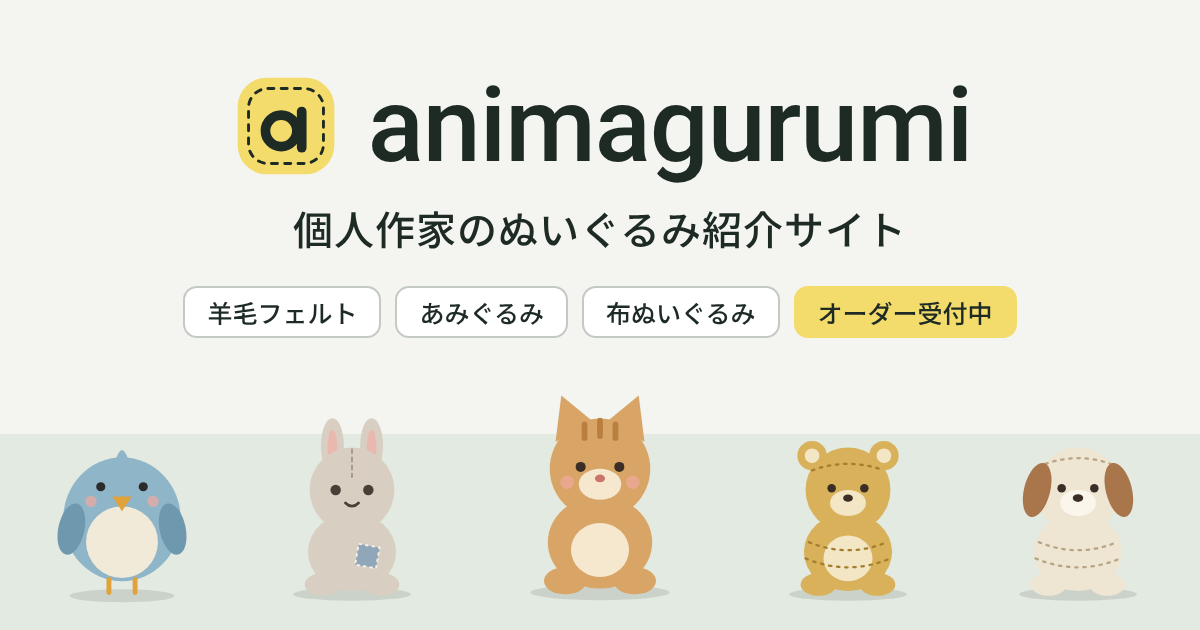
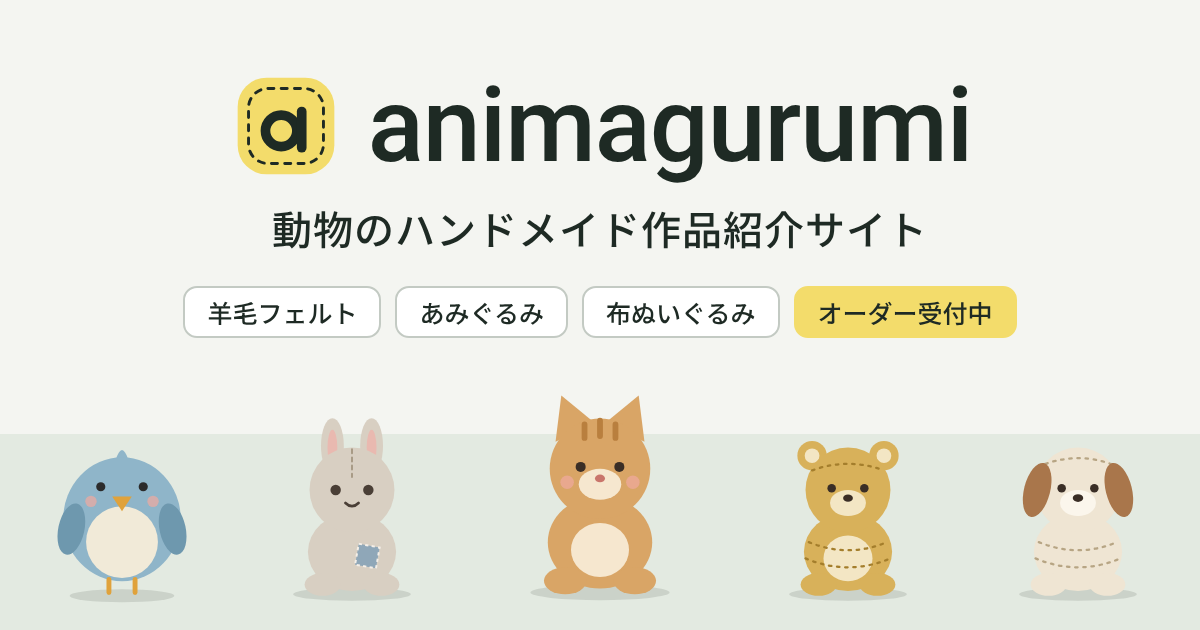
Change OGP tagline to 動物のハンドメイド作品紹介サイト
Claude-Session: https://claude.ai/code/session_017vs6AEuWtxD6dAa9PKKucm

Changed region(s): [[0.2158, 0.3317, 0.7708, 0.3921]]

diff --git a/Mobile.dc.html b/Mobile.dc.html
@@ -3,16 +3,16 @@
 <head>
 <meta charset="utf-8">
 <title>animagurumi トップページ スマホ版</title>
-<meta name="description" content="個人作家のぬいぐるみ紹介サイト。羊毛フェルト・あみぐるみ・布ぬいぐるみの作家と作品をさがせます。">
+<meta name="description" content="動物のハンドメイド作品紹介サイト。羊毛フェルト・あみぐるみ・布ぬいぐるみの作家と作品をさがせます。">
 <meta property="og:type" content="website">
 <meta property="og:site_name" content="animagurumi">
-<meta property="og:title" content="animagurumi｜個人作家のぬいぐるみ紹介サイト">
+<meta property="og:title" content="animagurumi｜動物のハンドメイド作品紹介サイト">
 <meta property="og:description" content="羊毛フェルト・あみぐるみ・布ぬいぐるみの作家と作品をさがせます。">
 <meta property="og:url" content="https://sasakitomopi.github.io/animarugumi-sample/Mobile.dc.html">
 <meta property="og:image" content="https://sasakitomopi.github.io/animarugumi-sample/ogp.png">
 <meta property="og:image:width" content="1200">
 <meta property="og:image:height" content="630">
-<meta property="og:image:alt" content="animagurumi 個人作家のぬいぐるみ紹介サイト">
+<meta property="og:image:alt" content="animagurumi 動物のハンドメイド作品紹介サイト">
 <meta property="og:locale" content="ja_JP">
 <meta name="twitter:card" content="summary_large_image">
 <script src="./vendor/react.js"></script>
